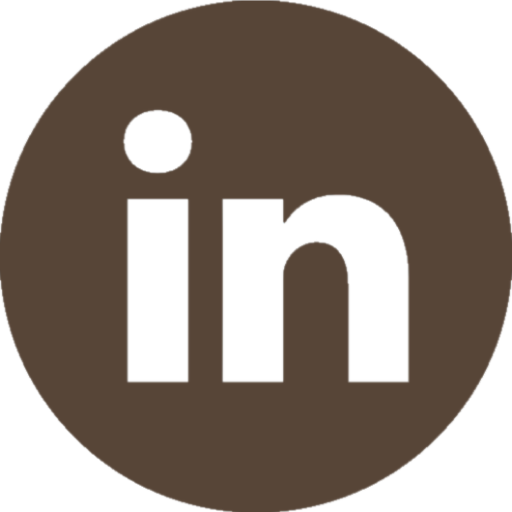
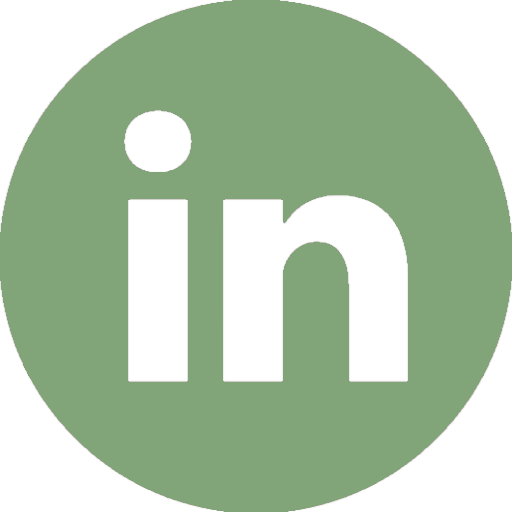
initial commit

diff --git a/script.js b/script.js
@@ -7,33 +7,35 @@ function mode() {
         console.log("light");
         img.src = 'pics/lightmode.png';
         img.style.transition = '1s all ease';
-        document.body.style.color = 'rgb(87, 69, 55)';
-        document.body.style.background = 'rgb(246, 242, 238)';
+        document.body.style.color = 'var(--color)';
+        document.body.style.background = 'var(--background)';
         document.getElementById("color1").style.color = 'var(--color)';
         document.getElementById("color2").style.color = 'var(--color)';
         document.getElementById("color3").style.color = 'var(--color)';
         document.getElementById("profile_shadow").src = 'pics/profile_shadow.jpg';
-        document.getElementById("resume").style.backgroundColor = 'var(--color)';
+        document.getElementById("resume").style.backgroundColor = 'var(--color2)';
+        document.getElementsByTagName("a")[3].style.color = 'var(--background)';
         document.getElementById("github_icon").style.backgroundImage = 'url("pics/github_icon.png")';
         document.getElementById("linkedin_icon").style.backgroundImage = 'url("pics/linkedin_icon.png")';
         document.getElementById("email_icon").style.backgroundImage = 'url("pics/email_icon.png")';
-        document.getElementById("vertical-line").style.background = 'var(--color)';
+        document.getElementById("vertical-line").style.background = 'var(--color2)';
     }
     else{
         console.log("dark");
         img.src = 'pics/darkmode.png';
         img.style.transition = '1s all ease';
-        document.body.style.color = 'rgb(246, 242, 238)';
-        document.body.style.background = 'rgb(87, 69, 55)';
+        document.body.style.color = 'var(--background)';
+        document.body.style.background = 'var(--color)';
         document.getElementById("color1").style.color = 'var(--background)';
         document.getElementById("color2").style.color = 'var(--background)';
         document.getElementById("color3").style.color = 'var(--background)';
         document.getElementById("profile_shadow").src = 'pics/profile_shadow2.jpg';
-        document.getElementById("resume").style.backgroundColor = 'rgb(136, 105, 87)';
+        document.getElementById("resume").style.backgroundColor = 'var(--background)';
+        document.getElementsByTagName("a")[3].style.color = 'var(--color2)';
         document.getElementById("github_icon").style.backgroundImage = 'url("pics/github_icon2.png")';
         document.getElementById("linkedin_icon").style.backgroundImage = 'url("pics/linkedin_icon2.png")';
         document.getElementById("email_icon").style.backgroundImage = 'url("pics/email_icon2.png")';
-        document.getElementById("vertical-line").style.background = 'rgb(136, 105, 87)';
+        document.getElementById("vertical-line").style.background = 'var(--background)';
     }
 }
 
@@ -47,7 +49,7 @@ function mode() {
 
 function type() {
     new Typed('.auto-type', {
-        strings: ["Cats", "Designing", "Modeling", "Programming"],
+        strings: ["Cats", "Designing", "3D Modeling", "Programming"],
         typeSpeed: 50,
         backSpeed: 20,
         loop: true,

diff --git a/style.css b/style.css
@@ -1,6 +1,7 @@
 :root {
     --background: rgb(29, 29, 29);
-    --color: rgb(87, 69, 55);
+    --color: rgb(166, 133, 190);
+    --color2: rgb(129, 165, 121);
 }
 
 @font-face {
@@ -82,7 +83,7 @@ h1 {
     margin-left: -25px;
     width: 100%;
     height: 3px;
-    background: rgb(23, 23, 23);
+    background: rgb(129, 165, 121);
     transform: translateX(-25%);
     opacity: 0;
 }
@@ -147,12 +148,11 @@ img {
 }
 
 #resume {
-    background: var(--color);
+    background: var(--color2);
     border-radius: 15px;
     text-align: center;
     height: 32px;
     width: 120px;
-    color: var(--background);
     font-family: reclinew05-regularregular, sans-serif;
     font-size: 18px;
     margin-left: 240px;
@@ -192,37 +192,37 @@ img {
     height: 200px;
     width: 2px;
     border: 0;
-    background: var(--color);
+    background: var(--color2);
     top: 800px;
     left: 41px;
 }
 
 #profile {
     position: fixed;
-    height: 400px;
+    height: 300px;
     float: left;
     padding: 0;
     margin: 0;
-    top: 300px;
-    left: 350px;
+    top: 200px;
+    left: 300px;
     z-index: 100;
 }
 
 #profile_shadow {
     position: fixed;
-    height: 400px;
+    height: 300px;
     float: left;
     padding: 0;
     margin: 0;
-    top: 350px;
-    left: 400px;
+    top: 230px;
+    left: 330px;
 }
 
 #about {
     position: fixed;
     float: right;
-    top: 400px;
-    left: 850px;
+    top: 270px;
+    left: 750px;
     width: 600px;
     font-size: 25px;
     font-family: reclinew05-regularregular, sans-serif;

diff --git a/about.html b/about.html
@@ -4,7 +4,6 @@
     <meta charset = "UTF-8">
     <meta charset = "UTF-8">
     <link rel = "stylesheet" href = "style.css">
-    <link rel = "icon" href="pics/shortcut_icon.png">
     <script src = "lib/typed.js" type = "text/javascript"></script>
     <title>Tímea Szabó - About me</title>
 </head>

diff --git a/index.html b/index.html
@@ -7,7 +7,6 @@
 <head>
     <meta charset = "UTF-8">
     <link rel = "stylesheet" href = "style.css">
-    <link rel = "icon" href="pics/shortcut_icon.png">
     <title>Tímea Szabó - Home</title>
 </head>
 <body>
